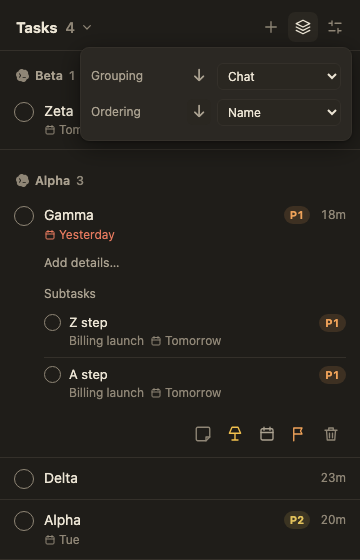
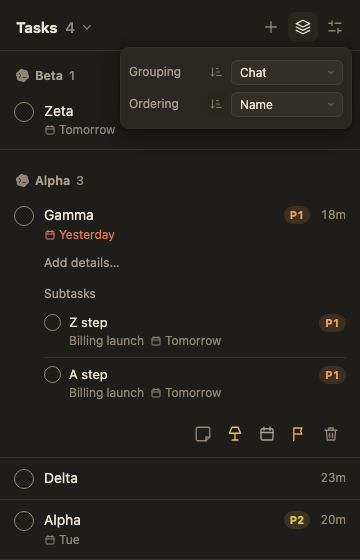
Refine and narrow the grouping menu controls

diff --git a/ui/index.html b/ui/index.html
@@ -36,8 +36,16 @@
           <svg viewBox="0 0 24 24"><path d="M12 3 3 7.5l9 4.5 9-4.5L12 3zM3 12l9 4.5 9-4.5M3 16.5 12 21l9-4.5"/></svg>
         </button>
         <div id="group-menu" class="menu" role="dialog" aria-label="Grouping and ordering" hidden>
-          <div class="layout-setting"><label for="group-field">Grouping</label><button id="group-direction" class="direction" aria-label="Reverse group order">↑</button><select id="group-field"><option value="none">No grouping</option><option value="chat">Chat</option><option value="agent">Agent</option><option value="priority">Priority</option><option value="due">Due date</option><option value="time">Date added</option></select></div>
-          <div class="layout-setting"><label for="order-field">Ordering</label><button id="order-direction" class="direction" aria-label="Reverse task order">↓</button><select id="order-field"><option value="priority">Priority</option><option value="due">Due date</option><option value="added">Date added</option><option value="name">Name</option><option value="completed">Date completed</option></select></div>
+          <div class="layout-setting">
+            <label for="group-field">Grouping</label>
+            <button id="group-direction" class="direction" aria-label="Reverse group order"><svg viewBox="0 0 24 24" aria-hidden="true"><path class="sort-arrow" d="M6 19V5m-3 3 3-3 3 3"/><path d="M13 6h3M13 12h5M13 18h8"/></svg></button>
+            <div class="layout-picker"><select id="group-field"><option value="none">No grouping</option><option value="chat">Chat</option><option value="agent">Agent</option><option value="priority">Priority</option><option value="due">Due date</option><option value="time">Date added</option></select><svg viewBox="0 0 24 24" aria-hidden="true"><path d="m7 10 5 5 5-5"/></svg></div>
+          </div>
+          <div class="layout-setting">
+            <label for="order-field">Ordering</label>
+            <button id="order-direction" class="direction" aria-label="Reverse task order"><svg viewBox="0 0 24 24" aria-hidden="true"><path class="sort-arrow" d="M6 19V5m-3 3 3-3 3 3"/><path d="M13 6h3M13 12h5M13 18h8"/></svg></button>
+            <div class="layout-picker"><select id="order-field"><option value="priority">Priority</option><option value="due">Due date</option><option value="added">Date added</option><option value="name">Name</option><option value="completed">Completed</option></select><svg viewBox="0 0 24 24" aria-hidden="true"><path d="m7 10 5 5 5-5"/></svg></div>
+          </div>
         </div>
       </div>
       <div class="menu-wrap">

diff --git a/ui/style.css b/ui/style.css
@@ -131,11 +131,16 @@ button svg {
 .menu button:hover { background: var(--bg-hover); }
 .menu button::after { content: ""; margin-left: auto; }
 .menu button[aria-checked="true"]::after { content: "✓"; color: var(--accent); font-weight: 700; }
-#group-menu { position: fixed; right: 8px; width: 272px; max-width: calc(100vw - 16px); padding: 10px; }
-.layout-setting { display: flex; align-items: center; gap: 6px; min-height: 36px; }
+#group-menu { position: fixed; right: 8px; width: 232px; max-width: calc(100vw - 16px); padding: 8px; }
+.layout-setting { display: flex; align-items: center; gap: 4px; min-height: 32px; }
 .layout-setting label { flex: 1; font-size: 12px; color: var(--soft); }
-.layout-setting select { width: 124px; min-width: 0; font: inherit; font-size: 12px; color: var(--ink); background: var(--bg-hover); border: 1px solid var(--line); border-radius: 6px; padding: 4px 6px; cursor: pointer; }
-.menu .layout-setting .direction { flex: none; width: 24px; height: 26px; padding: 0; justify-content: center; font-size: 17px; color: var(--soft); }
+.layout-picker { position: relative; flex: none; width: 112px; }
+.layout-setting select { appearance: none; -webkit-appearance: none; display: block; width: 100%; min-width: 0; height: 25px; font: inherit; font-size: 12px; line-height: 17px; color: var(--ink); background: color-mix(in srgb, var(--ink) 4%, var(--bg-menu)); border: 1px solid color-mix(in srgb, var(--ink) 9%, transparent); border-radius: 6px; padding: 3px 23px 3px 8px; cursor: pointer; }
+.layout-picker > svg { position: absolute; right: 6px; top: 6px; width: 12px; height: 12px; color: var(--muted); pointer-events: none; }
+.layout-setting svg { fill: none; stroke: currentColor; stroke-width: 1.6; stroke-linecap: round; stroke-linejoin: round; }
+.menu .layout-setting .direction { flex: none; width: 22px; height: 25px; padding: 0; justify-content: center; color: var(--muted); }
+.layout-setting .direction svg { width: 14px; height: 14px; }
+.direction[data-descending="true"] .sort-arrow { transform: translateY(24px) scaleY(-1); }
 .menu .layout-setting .direction::after { display: none; }
 .layout-setting .direction:disabled { opacity: .3; cursor: default; }
 .layout-setting select:focus-visible { outline: 2px solid var(--accent); outline-offset: 2px; }

diff --git a/ui/app.js b/ui/app.js
@@ -518,7 +518,7 @@ function render() {
   for (const [id, field, reversed, grouping] of [["group-direction", groupBy, groupDescending, true], ["order-direction", orderBy, orderDescending, false]]) {
     const button = $(id);
     button.disabled = field === "none";
-    button.textContent = reversed ? "↓" : "↑";
+    button.dataset.descending = String(reversed);
     button.title = field === "none" ? "No grouping" : `${directionLabel(field, reversed, grouping)}. Click to reverse.`;
     button.setAttribute("aria-label", `${grouping ? "Group" : "Task"} order: ${button.title}`);
   }
